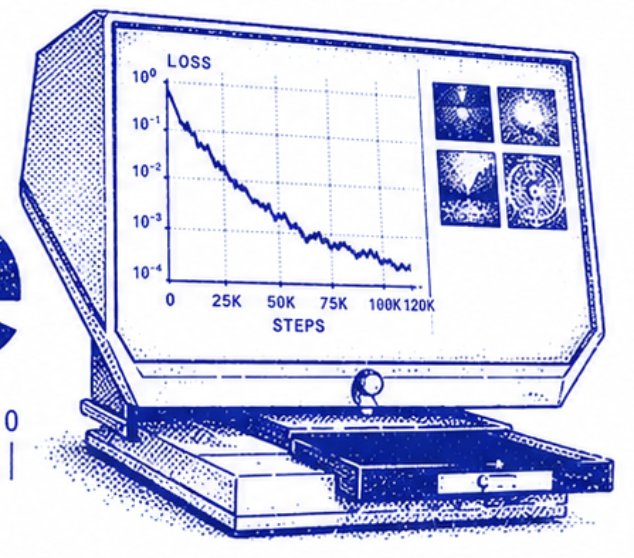
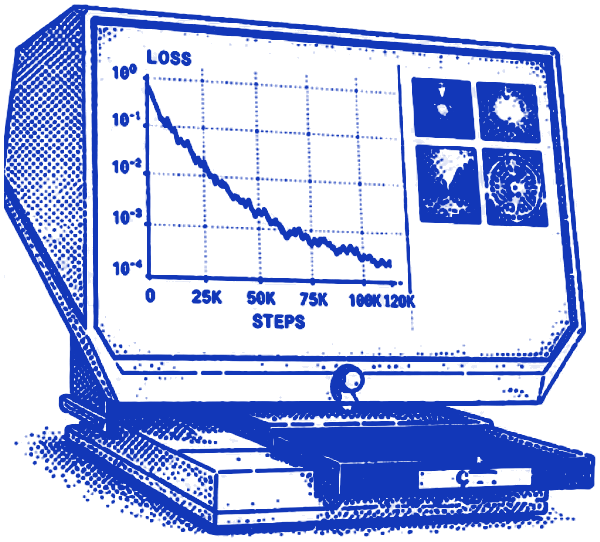
fix: polish dashboard and thumbnail framing

diff --git a/apps/web/src/vela-theme.css b/apps/web/src/vela-theme.css
@@ -84,10 +84,10 @@ html[data-theme="light"] .vela-theme {
 html[data-theme="dark"] .vela-theme {
   color-scheme: dark;
   --mf-bg: #081b78;
-  --mf-bg-deep: #05104a;
-  --mf-surface: #0c258e;
-  --mf-surface-muted: #112d9d;
-  --mf-surface-raised: #112d9d;
+  --mf-bg-deep: #081b78;
+  --mf-surface: #081b78;
+  --mf-surface-muted: #081b78;
+  --mf-surface-raised: #081b78;
   --mf-ink-primary: #f7f5ec;
   --mf-ink-strong: #f7f5ec;
   --mf-ink-muted: #bfc9f4;
@@ -101,7 +101,7 @@ html[data-theme="dark"] .vela-theme {
   --mf-danger: #ff9aa0;
   --mf-shadow: rgb(5 16 74 / 48%);
   --mf-grid: rgb(143 165 239 / 8%);
-  --mf-media-bed: #05104a;
+  --mf-media-bed: #081b78;
   background-color: var(--vela-bg);
   background-image:
     linear-gradient(var(--mf-grid) 1px, transparent 1px),
@@ -235,11 +235,11 @@ body:has(.vela-theme) { overflow-x: clip; }
 .vela-create-menu button:hover { background: var(--vela-surface-soft); }
 
 .vela-main { display: grid; align-content: start; gap: var(--vela-space-5); padding: var(--vela-space-6); }
-.vela-hero { min-height: 184px; display: grid; grid-template-columns: minmax(0, 1fr) 260px; align-items: center; gap: var(--vela-space-6); padding: 32px 36px; overflow: hidden; border: 1px solid var(--vela-border); border-radius: var(--vela-radius-lg); background: var(--vela-surface); }
-.vela-hero h1 { font: 700 clamp(48px, 6vw, 72px)/.92 var(--vela-font-display); letter-spacing: -.035em; text-transform: uppercase; }
-.vela-hero p { max-width: 65ch; margin-top: var(--vela-space-4); color: var(--vela-muted); }
-.vela-hero-art { position: relative; height: 136px; display: grid; place-items: center; }
-.vela-reader-symbol { position: absolute; inset: 0; width: 100%; height: 100%; object-fit: contain; }
+.vela-hero { min-height: 140px; display: grid; grid-template-columns: minmax(0, 1fr) 220px; align-items: center; gap: var(--vela-space-5); padding: 24px 28px; overflow: hidden; border: 1px solid var(--vela-border); border-radius: var(--vela-radius-lg); background: var(--vela-surface); }
+.vela-hero h1 { font: 700 clamp(38px, 5vw, 56px)/.94 var(--vela-font-display); letter-spacing: -.035em; text-transform: uppercase; }
+.vela-hero p { max-width: 65ch; margin-top: var(--vela-space-3); color: var(--vela-muted); }
+.vela-hero-art { position: relative; height: 108px; display: grid; place-items: center; }
+.vela-reader-symbol { position: absolute; inset: 0; width: 100%; height: 100%; object-fit: contain; transform: scaleX(-1); }
 .vela-reader-symbol-dark { display: none; }
 html[data-theme="dark"] .vela-reader-symbol-light { display: none; }
 html[data-theme="dark"] .vela-reader-symbol-dark { display: block; }
@@ -704,8 +704,21 @@ html[data-theme="dark"] .vela-reader-symbol-dark { display: block; }
 .vela-theme .image-review-inspector h2 { display: flex; align-items: center; justify-content: space-between; gap: 8px; }
 .vela-theme .image-review-inspector h2 .asset-origin-badge { position: static; }
 .vela-theme .filmstrip a.active { border-color: var(--vela-selection); box-shadow: inset 0 0 0 2px var(--vela-selection); }
-.vela-theme .project-image-mosaic { height: auto; aspect-ratio: 1 / 1; }
-.vela-theme .project-image-mosaic img { aspect-ratio: 1 / 1; }
+.vela-theme .project-image-mosaic {
+  height: auto;
+  aspect-ratio: auto;
+  grid-template-columns: repeat(4, minmax(0, 1fr));
+  grid-template-rows: none;
+  align-content: start;
+}
+.vela-theme .project-image-mosaic a { aspect-ratio: 1; }
+.vela-theme .project-image-mosaic img { width: 100%; height: 100%; aspect-ratio: 1; object-fit: contain; }
+.vela-theme .latest-run-samples img { object-fit: contain; }
+.vela-theme .object-image-strip { height: auto; }
+.vela-theme .object-image-strip a { aspect-ratio: 1; }
+.vela-theme .object-image-strip img { width: 100%; height: 100%; object-fit: contain; }
+.vela-theme .eval-thumbs { height: auto; }
+.vela-theme .eval-thumbs img { width: 100%; height: auto; aspect-ratio: 1; object-fit: contain; }
 .vela-theme .caption-item.selected { background: color-mix(in oklch, var(--vela-selection) 8%, var(--vela-surface)); outline-color: var(--vela-selection); }
 .vela-theme .caption-version.active { background: color-mix(in oklch, var(--vela-selection) 8%, var(--vela-surface)); box-shadow: inset 3px 0 0 var(--vela-selection); }
 .vela-theme .caption-version.active .caption-version-number { border-color: var(--vela-selection); background: var(--vela-selection); }
@@ -751,9 +764,17 @@ html[data-theme="dark"] .vela-reader-symbol-dark { display: block; }
 /* Shell rails and ruler infrastructure. */
 .vela-sidebar,
 .vela-inspector {
+  top: 0;
+  bottom: 0;
+  align-self: start;
+  block-size: 100vh;
+  block-size: 100dvh;
   background-color: var(--mf-surface);
   background-image: repeating-linear-gradient(0deg, transparent 0 15px, var(--mf-grid) 15px 16px);
   border-color: var(--mf-border-strong);
+  border-bottom: 1px solid var(--mf-border-strong);
+  box-shadow: inset 0 -2px 0 var(--mf-bg);
+  overscroll-behavior-y: contain;
 }
 .vela-sidebar { padding: var(--vela-space-4) var(--vela-space-3); border-right-width: 1px; }
 .vela-inspector { padding: var(--vela-space-4); border-left-width: 1px; }
@@ -846,7 +867,7 @@ html[data-theme="dark"] .vela-reader-symbol-dark { display: block; }
   box-shadow: inset 0 0 0 3px var(--mf-surface);
 }
 .vela-page-header { padding: 32px; }
-.vela-hero { min-height: 184px; padding: 32px 36px; }
+.vela-hero { min-height: 140px; padding: 24px 28px; }
 .vela-page-header::before,
 .vela-hero::before {
   content: "01 / OVERVIEW";
@@ -868,9 +889,9 @@ html[data-theme="dark"] .vela-reader-symbol-dark { display: block; }
   letter-spacing: .6em;
 }
 .vela-page-header h1 { color: var(--mf-ink-primary); font-size: clamp(34px, 4vw, 48px); letter-spacing: -.035em; }
-.vela-hero h1 { color: var(--mf-ink-primary); font-size: clamp(48px, 6vw, 72px); letter-spacing: -.045em; }
+.vela-hero h1 { color: var(--mf-ink-primary); font-size: clamp(38px, 5vw, 56px); letter-spacing: -.04em; }
 .vela-page-header p,
-.vela-hero p { color: var(--mf-ink-muted); font-size: 14px; }
+.vela-hero p { color: var(--mf-ink-muted); font-size: 13px; }
 .vela-hero-art::before,
 .vela-hero-art::after { content: none; }
 .vela-section { margin-top: var(--vela-space-5); }
@@ -1091,6 +1112,17 @@ html[data-theme="dark"] .vela-hero-art::before {
 html[data-theme="dark"] .vela-hero-art::after { border-radius: 50%; box-shadow: 0 0 0 8px rgb(135 169 255 / 8%); }
 html[data-theme="dark"] :is(.vela-panel, .panel, .vela-form, form, .vela-table-wrap, .table-wrap, .vela-chart, .loss-graph, .asset-card img, .comparison-image img) {
   background-image: none;
+}
+html[data-theme="dark"] :is(
+  .vela-data-cell,
+  .vela-stat,
+  .comparison-stack a,
+  .eval-run-strip > a,
+  .run-summary > div,
+  .training-metric-summary > div
+) {
+  border-color: var(--mf-accent);
+  background: #112d9d;
 }
 html[data-theme="dark"] .vela-theme .vela-button-primary,
 html[data-theme="dark"] .vela-theme .primary { color: var(--mf-active-text); }

diff --git a/apps/web/src/shell.tsx b/apps/web/src/shell.tsx
@@ -194,11 +194,8 @@ function Sidebar({ section, id, activeProjectId, projects, workspace, theme, col
   const visibleProjects = projects.filter(project => project.state !== "archived");
   const shownProjects = visibleProjects.length ? visibleProjects : projects;
   const activeSources = rows(sources.data).filter(source => source.is_active !== false).length;
-  const workspaceKey = str(workspace?.id, "");
-  const archiveIdentifier = workspaceKey ? workspaceKey.slice(0, 8).toUpperCase() : "LOCAL";
   return <aside className="vela-sidebar" id="vela-navigation" data-mobile-open={mobileOpen} onClick={event => { if ((event.target as HTMLElement).closest("a")) onMobileClose(); }}>
     <div className="vela-brand"><a className="vela-wordmark" href="#/dashboard" aria-label="ModelFiche dashboard"><img src={`/assets/modelfiche-logo-${theme}.png`} alt="ModelFiche" /></a><button type="button" className="vela-icon-button vela-desktop-rail-control" aria-label={collapsed ? "Expand navigation" : "Collapse navigation"} aria-controls="vela-navigation" aria-expanded={!collapsed} onClick={onCollapse}>{collapsed ? <ChevronRight size={17} /> : <PanelLeftClose size={17} />}</button><button type="button" className="vela-icon-button vela-mobile-close" aria-label="Close navigation" onClick={onMobileClose}><X size={18} /></button></div>
-    <div className="vela-workspace-context" data-workspace-id={workspaceKey}><span className="vela-meta">Archive / Workspace {archiveIdentifier}</span><strong>{str(workspace?.name, "Workspace")}</strong></div>
     <nav className="vela-nav" aria-label="Primary navigation" data-layout={SHELL_LAYOUT_CONTRACT.navigation}>
       <VelaNavLink href="#/dashboard" active={section === "dashboard" || section === "projects"} icon={<LayoutDashboard size={16} />}>Dashboard</VelaNavLink>
       <VelaNavLink href="#/gallery" active={section === "gallery" || section === "image"} icon={<Images size={16} />}>Gallery</VelaNavLink>
@@ -251,7 +248,7 @@ function ContextInspector({ section, id, projectId, collapsed, mobileOpen, onMob
   const title = entityTitle(section, entity.data);
   return <aside className="vela-inspector" id="vela-metadata" data-mobile-open={mobileOpen} data-layout={SHELL_LAYOUT_CONTRACT.inspector}>
     <div className="vela-inspector-heading"><h2>Metadata</h2><button type="button" className="vela-icon-button vela-desktop-rail-control" aria-label={collapsed ? "Expand metadata" : "Collapse metadata"} aria-controls="vela-metadata" aria-expanded={!collapsed} onClick={onCollapse}>{collapsed ? <ChevronLeft size={17} /> : <PanelRightClose size={17} />}</button><button type="button" className="vela-icon-button vela-mobile-close" aria-label="Close metadata and notes" onClick={onMobileClose}><X size={18} /></button></div>
-    <section className="vela-inspector-card"><div className="vela-context-title"><div><h3>{title}</h3><Status value={str(entity.data?.state ?? entity.data?.status, section === "dashboard" ? "workspace" : "selected")} /></div></div><Notice error={entity.error} loading={entity.loading} />{entity.data ? <MetadataRows value={entity.data} /> : <p className="vela-muted-copy">Select an object to inspect its metadata and history.</p>}</section>
+    <section className="vela-inspector-card"><div className="vela-context-title"><div><h3>{title}</h3>{section !== "project" && <Status value={str(entity.data?.state ?? entity.data?.status, section === "dashboard" ? "workspace" : "selected")} />}</div></div><Notice error={entity.error} loading={entity.loading} />{entity.data ? <MetadataRows value={entity.data} /> : <p className="vela-muted-copy">Select an object to inspect its metadata and history.</p>}</section>
     {subject && ["project", "dataset", "model"].includes(subject.type) && <NotesPanel subjectType={subject.type} subjectId={subject.id} />}
     <section className="vela-inspector-card"><div className="vela-section-heading"><h2>{projectId ? "Project activity" : "Workspace activity"}</h2></div><Notice error={activity.error} loading={activity.loading} empty={!rows(activity.data).length} /><div className="vela-activity-list">{rows(activity.data).map(item => { const rawEvent = str(item.action ?? item.event_type); return <article className="vela-activity-item" key={idOf(item)}><div className="vela-activity-thumb"><Activity size={17} /></div><div><h3>{activityLabel(rawEvent)}</h3><p>{str(item.summary ?? item.subject_type)}<br />{formatDate(item.created_at)}</p>{/[._]/.test(rawEvent) && <details className="vela-activity-technical"><summary>Technical details</summary><code>{rawEvent}</code></details>}</div></article>; })}</div></section>
     <button type="button" className="vela-rail-label" aria-label="Expand metadata" aria-controls="vela-metadata" aria-expanded={!collapsed} onClick={onCollapse}>METADATA</button>

diff --git a/apps/web/src/screens-core.tsx b/apps/web/src/screens-core.tsx
@@ -86,7 +86,7 @@ export function ProjectScreen({ id, editing = false }: { id: string; editing?: b
   const [projectBusy, setProjectBusy] = useState(false);
   const runRows = rows(runs.data); const datasetRows = rows(datasets.data); const modelRows = rows(models.data); const evalRows = rows(evals.data);
   const archived = project.data?.state === "archived";
-  return <Page title={str(project.data?.title ?? project.data?.name, "Project")} subtitle={`${Array.isArray(project.data?.trigger_words) && project.data.trigger_words.length ? project.data.trigger_words.join(", ") : "No trigger words"} · ${str(project.data?.state, "active")}`} actions={archived ? <button disabled title="Restore the project before generating or importing"><Upload size={15} /> Actions unavailable</button> : <><a className="button vela-button vela-button-primary" href={generatorHref("image", { kind: "project", projectId: id })}><ImagePlus size={15} /> + Image</a><a className="button vela-button" href={`#/evals?project=${id}&scope=project`}><Sparkles size={15} /> Eval</a><a className="button vela-button" href={`#/grids?project=${id}&scope=project`}><Grid3X3 size={15} /> Grid</a><a className="button vela-button" href={`#/import?project=${id}`}><Upload size={15} /> Import</a></>}>
+  return <Page title={str(project.data?.title ?? project.data?.name, "Project")} subtitle={`${Array.isArray(project.data?.trigger_words) && project.data.trigger_words.length ? project.data.trigger_words.join(", ") : "No trigger words"}`} actions={archived ? <button disabled title="Restore the project before generating or importing"><Upload size={15} /> Actions unavailable</button> : <><a className="button vela-button vela-button-primary" href={generatorHref("image", { kind: "project", projectId: id })}><ImagePlus size={15} /> + Image</a><a className="button vela-button" href={`#/evals?project=${id}&scope=project`}><Sparkles size={15} /> Eval</a><a className="button vela-button" href={`#/grids?project=${id}&scope=project`}><Grid3X3 size={15} /> Grid</a><a className="button vela-button" href={`#/import?project=${id}`}><Upload size={15} /> Import</a></>}>
     <Notice error={project.error || projectActionError} loading={project.loading} />
     <div className="project-visual-grid" aria-label="Project image collections">
       <ProjectImagePanel title={PROJECT_IMAGE_COLLECTION_ORDER[0]} assets={rows(datasetImages.data)} loading={datasetImages.loading} error={datasetImages.error} href={projectGalleryHref(id, "dataset_image", { include_dataset_assets: true })} returnTarget={`project/${id}`} />
